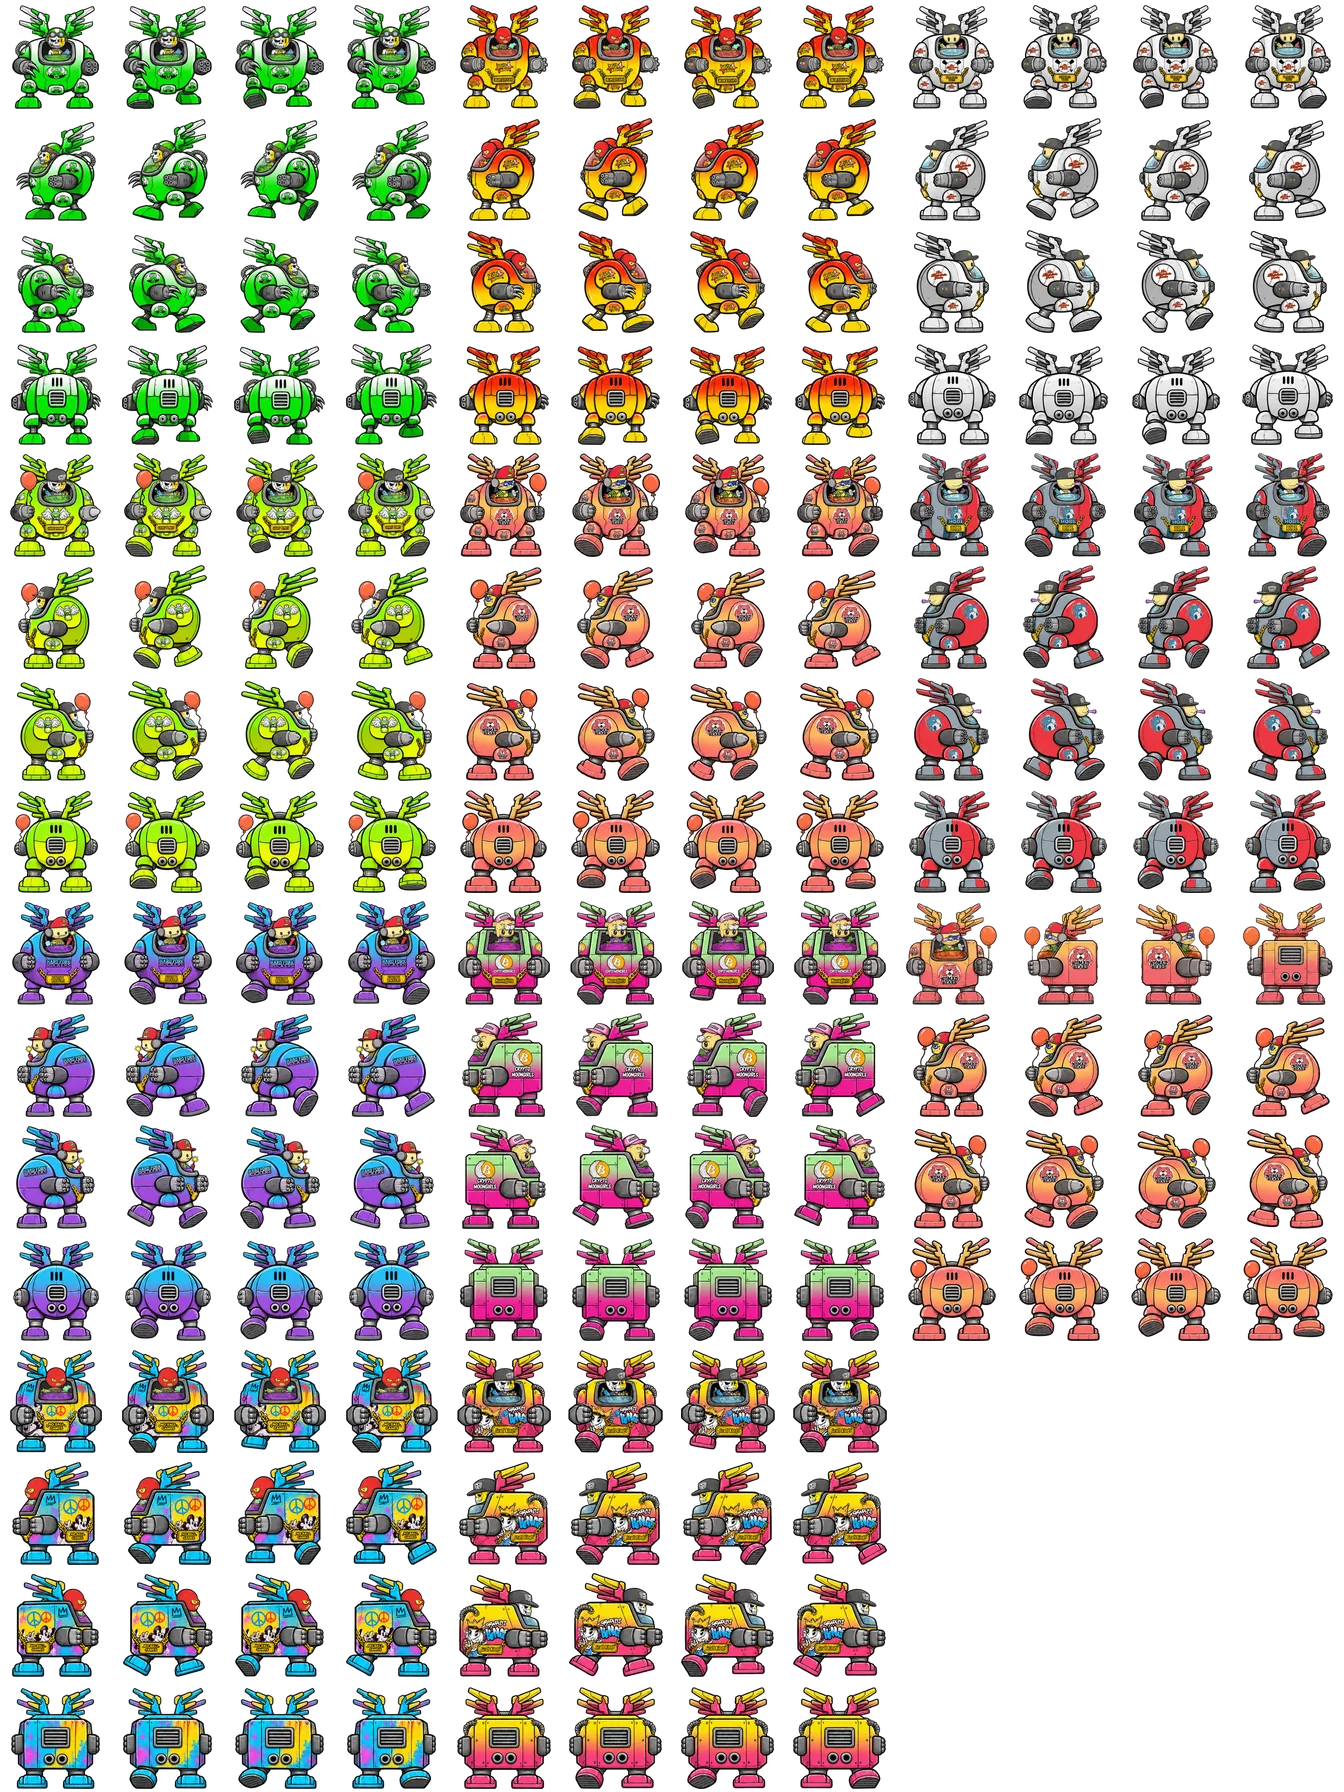
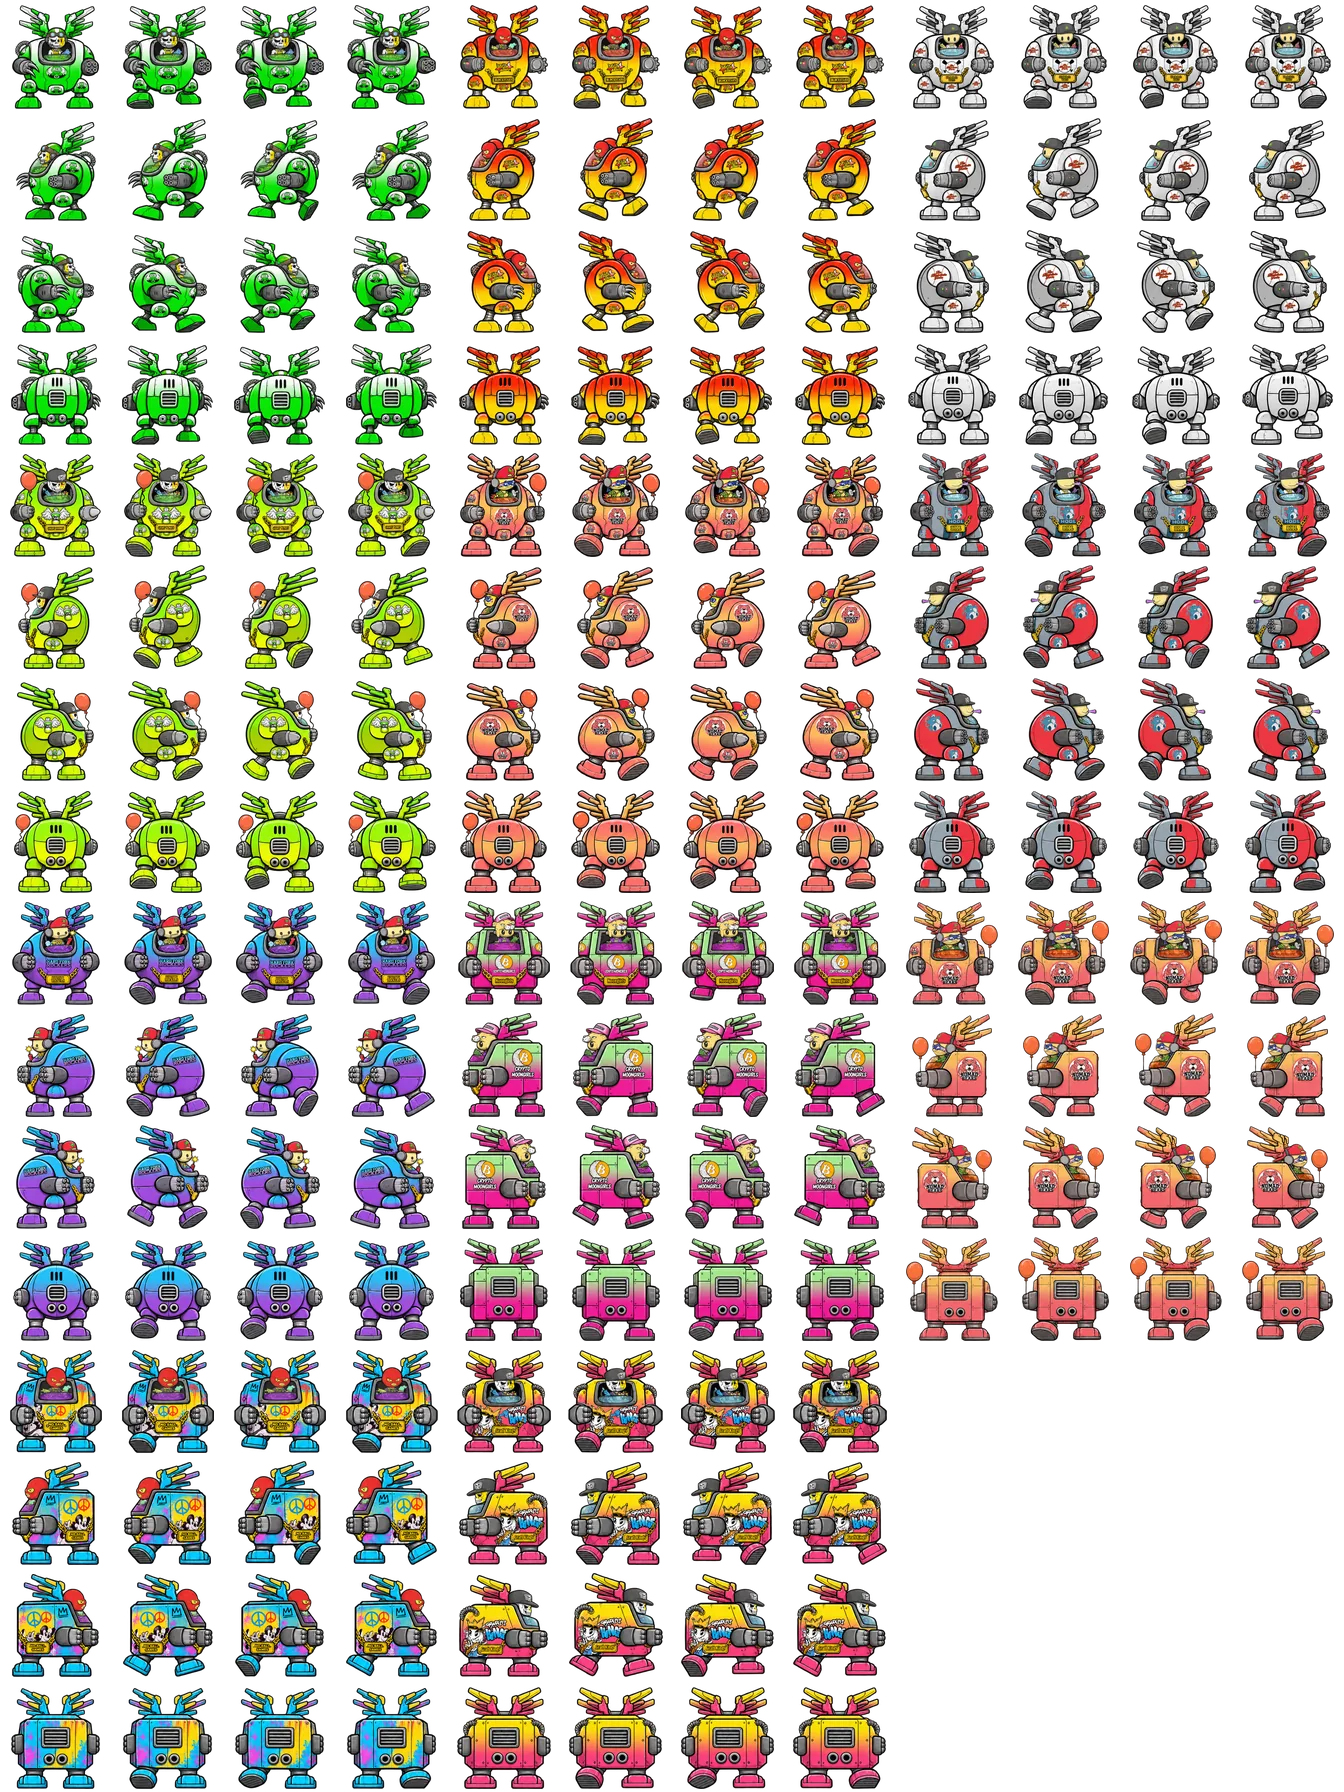
Use all 16 original Nomad Bears block mech frames (#2039)
* Use all original Nomad Bears block mech directions

* Commit the regenerated Waterfront mech atlas

Changed region(s): [[0.6562, 0.5, 1.0, 0.75]]

diff --git a/games/block-topia/waterfront/entry.js b/games/block-topia/waterfront/entry.js
@@ -100,7 +100,7 @@ function bootMap(district) {
         window.createWaterfrontFactionConversations = createFactionConversations;
       }
       window.waterfrontCharacterNames = Object.values(LEADERS).map(leader => leader.character);
-      if (!window.drawWaterfront) await script('harbor-art.js?v=48-roaming-sprites');
+      if (!window.drawWaterfront) await script('harbor-art.js?v=49-nomad-mech');
       if (!window.waterfrontCrewBriefing) await script('crew-briefing.js?v=1');
       if (!window.waterfrontMapLoaded) await script('map.js?v=10');
       if (!window.waterfrontMapLoaded) throw new Error('map_load_failed');

diff --git a/games/block-topia/waterfront/harbor-art.js b/games/block-topia/waterfront/harbor-art.js
@@ -67,7 +67,7 @@ const waterfrontRoamers = [
     ["electric-blue", 30], ["electric-green", 30], ["boombox", 33],
     ["samurai", 36], ["burglar-bear", 34], ["sailor-bear", 34],
   ] },
-  { file: "roamers-mechs.webp", cell: roamingAtlasCell, cast: [
+  { file: "roamers-mechs.webp?v=2", cell: roamingAtlasCell, cast: [
     ["allcity-bulls-mech", 53], ["blockstars-mech", 53], ["blockchain-furies-mech", 53],
     ["graffpunks-mech", 53], ["nomad-bears-mech", 53], ["hodl-mech", 53],
     ["hard-fork-rockers-mech", 53], ["moongirls-mech", 53], ["nomad-bears-block-mech", 53],

diff --git a/games/block-topia/waterfront/index.html b/games/block-topia/waterfront/index.html
@@ -103,6 +103,6 @@ fieldset button{margin:.2rem .15rem .2rem 0}
 </main>
 <script data-cfasync="false" src="/js/api-config.js"></script>
 <script data-cfasync="false" src="/js/identity-gate.js"></script>
-<script data-cfasync="false" type="module" src="entry.js?v=18-roaming-sprites"></script>
+<script data-cfasync="false" type="module" src="entry.js?v=19-nomad-mech"></script>
 </body>
 </html>

diff --git a/games/block-topia/waterfront/SPRITE-LIBRARY.md b/games/block-topia/waterfront/SPRITE-LIBRARY.md
@@ -23,10 +23,10 @@ These 27 guest sprites come from GK’s November 24 Waterfront sheet batch. Ever
 | Atlas | Models in packing order with source job prefixes |
 | --- | --- |
 | [roamers-patrol.webp](assets/atlases/roamers-patrol.webp) | Police Robot (`c3a815e0`), Police Car (`8c3fd763`), Police Bike (`598578f2`), Blue Electric Bot (`fe4ae92b`), Green Electric Bot (`2d5f8e2e`), Walking Boombox (`2371547a`), Samurai (`d956997a`), Burglar Bear (`74cd153d`), Sailor Bear (`6e6d5634`) |
-| [roamers-mechs.webp](assets/atlases/roamers-mechs.webp) | Allcity Bulls (`47412f05`), Blockstars (`8ad42761`), Blockchain Furies (`3194eb57`), GraffPunks (`84b01c4c`), Nomad Bears (`e317ac85`), HODL (`73c8e85b`), Hard Fork Rockers (`1064da43`), Moongirls (`2b60a2f3`), Nomad Bears block variant (`da6af566`), No Ball Games (`411f5153`), Graffiti Kings (`d1cdf6a8`) |
+| [roamers-mechs.webp](assets/atlases/roamers-mechs.webp) | Allcity Bulls (`47412f05`), Blockstars (`8ad42761`), Blockchain Furies (`3194eb57`), GraffPunks (`84b01c4c`), Nomad Bears (`e317ac85`), HODL (`73c8e85b`), Hard Fork Rockers (`1064da43`), Moongirls (`2b60a2f3`), Nomad Bears block variant (`Nomad Bear waterfront mech sprites(1).png`), No Ball Games (`411f5153`), Graffiti Kings (`d1cdf6a8`) |
 | [roamers-bears.webp](assets/atlases/roamers-bears.webp) | Jamaican Bear (`37961231`), Camo Bear (`55230f31`), Gentleman Bear (`73defe77`), Graff Bear (`533cbd83`), Posh Bear (`11e64d44`), St Patrick’s Day Bear (`2446ae85`), Straight Outta Ghetto Bear (`546d0448`) |
 
-The Nomad Bears block variant’s source shows the front in all four rows. It uses that sheet for the front and the first Nomad Bears mech sheet for the side and rear views. The roamers share the existing walkable island loop at staggered starting points. The renderer skips offscreen roamers, shows idle frames while paused or in reduced-motion mode, and skips any guest atlas that fails to load so the rest of the map can still run.
+The Nomad Bears block variant’s source arranges directions in columns and poses in rows. Its own 16 frames are transposed to the atlas layout. The roamers share the existing walkable island loop at staggered starting points. The renderer skips offscreen roamers, shows idle frames while paused or in reduced-motion mode, and skips any guest atlas that fails to load so the rest of the map can still run.
 
 ## Multi-frame atlases
 
